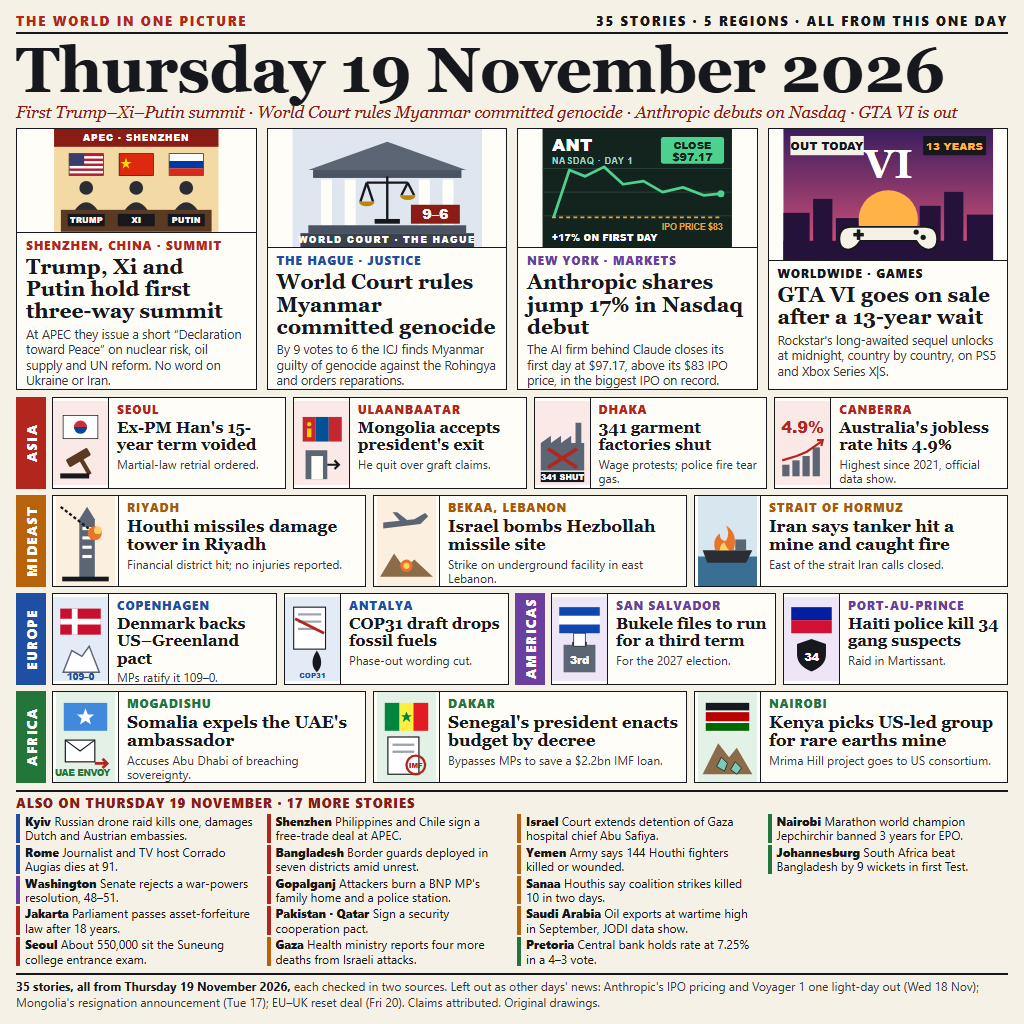
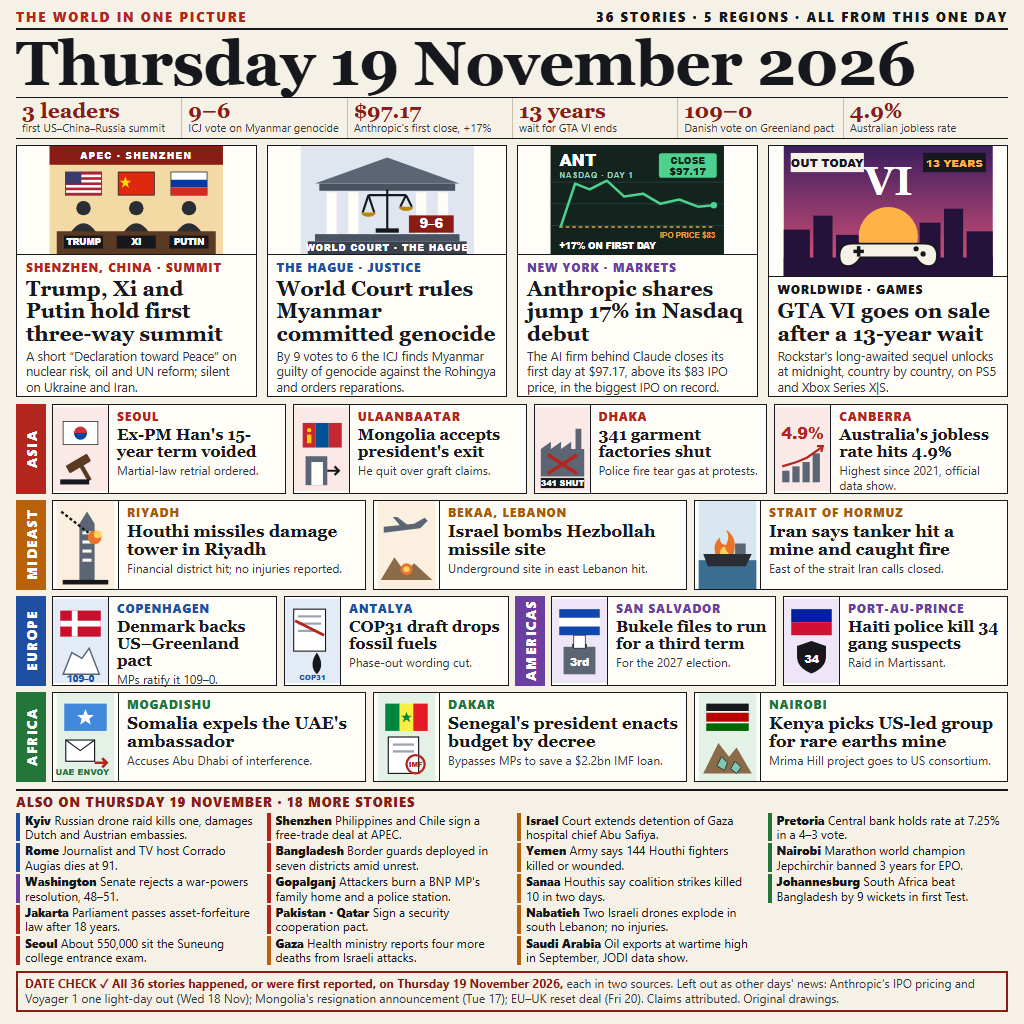
v4: key-number strip, boxed date check, 36 stories

Changed region(s): [[0.0, 0.0, 1.0, 1.0]]

diff --git a/page.html b/page.html
@@ -9,7 +9,7 @@
   body {
     background: #f6f1e6; color: #16181d;
     font-family: "Segoe UI", Arial, Helvetica, sans-serif;
-    padding: 12px 16px 0;
+    padding: 8px 16px 0;
   }
   .serif { font-family: Georgia, "Times New Roman", serif; }
 
@@ -18,13 +18,13 @@
     font-size: 13px; font-weight: 800; letter-spacing: .14em; text-transform: uppercase;
     border-bottom: 2px solid #16181d; padding-bottom: 3px; }
   .top .k { color: #b3261e; }
-  h1 { font-family: Georgia, "Times New Roman", serif; font-size: 64px; line-height: 1; font-weight: 700;
-    letter-spacing: -.01em; margin: 4px 0 1px; }
+  h1 { font-family: Georgia, "Times New Roman", serif; font-size: 62px; line-height: 1; font-weight: 700;
+    letter-spacing: -.01em; margin: 3px 0 2px; }
   .sub { font-family: Georgia, serif; font-style: italic; font-size: 16.5px; color: #8a1c16; margin-bottom: 6px; }
 
   /* hero row */
   .hero { display: grid; grid-template-columns: repeat(4, 1fr); gap: 10px; }
-  .h { background: #fffdf8; border: 1.5px solid #16181d; height: 262px; display: flex; flex-direction: column; }
+  .h { background: #fffdf8; border: 1.5px solid #16181d; height: 252px; display: flex; flex-direction: column; }
   .h svg { display: block; width: 100%; height: 132px; border-bottom: 1.5px solid #16181d; }
   .h .tx { padding: 5px 9px 0; }
   .tag { font-size: 11.5px; font-weight: 800; letter-spacing: .1em; text-transform: uppercase; }
@@ -33,7 +33,7 @@
 
   /* regions */
   .regions { margin-top: 7px; display: flex; flex-direction: column; gap: 6px; }
-  .row { display: flex; gap: 6px; height: 92px; }
+  .row { display: flex; gap: 6px; height: 90px; }
   .lab { width: 30px; flex: none; color: #fff; display: flex; align-items: center; justify-content: center; }
   .lab span { writing-mode: vertical-rl; transform: rotate(180deg); font-size: 13px; font-weight: 800;
     letter-spacing: .12em; text-transform: uppercase; white-space: nowrap; }
@@ -59,14 +59,26 @@
   .briefs ul { list-style: none; display: grid; grid-template-columns: repeat(4, 1fr); grid-template-rows: repeat(5, auto); grid-auto-flow: column; gap: 2px 10px; }
   .briefs li { font-size: 12px; line-height: 1.2; border-left: 4px solid; padding-left: 5px; }
   .briefs li b { font-weight: 800; }
-  footer { margin-top: 7px; border-top: 2px solid #16181d; padding-top: 4px; font-size: 12px; line-height: 1.3; color: #33363c; }
+  .stats { display: grid; grid-template-columns: repeat(6, 1fr); border-top: 1.5px solid #16181d; border-bottom: 1.5px solid #16181d; margin-bottom: 6px; }
+  .stats div { padding: 2px 6px 3px; border-left: 1px solid #c9bfa8; }
+  .stats div:first-child { border-left: none; }
+  .stats b { display: block; font-family: Georgia, serif; font-size: 21px; line-height: 1.05; color: #8a1c16; }
+  .stats span { display: block; font-size: 11px; line-height: 1.15; color: #33363c; }
+  footer { margin-top: 6px; border: 2px solid #8a1c16; padding: 3px 7px; font-size: 12px; line-height: 1.3; color: #33363c; }
   footer b { color: #16181d; }
 </style>
 </head>
 <body>
-  <div class="top"><span class="k">The world in one picture</span><span>35 stories · 5 regions · all from this one day</span></div>
+  <div class="top"><span class="k">The world in one picture</span><span>36 stories · 5 regions · all from this one day</span></div>
   <h1>Thursday 19 November 2026</h1>
-  <div class="sub">First Trump–Xi–Putin summit · World Court rules Myanmar committed genocide · Anthropic debuts on Nasdaq · GTA VI is out</div>
+  <div class="stats">
+    <div><b>3 leaders</b><span>first US–China–Russia summit</span></div>
+    <div><b>9–6</b><span>ICJ vote on Myanmar genocide</span></div>
+    <div><b>$97.17</b><span>Anthropic's first close, +17%</span></div>
+    <div><b>13 years</b><span>wait for GTA VI ends</span></div>
+    <div><b>109–0</b><span>Danish vote on Greenland pact</span></div>
+    <div><b>4.9%</b><span>Australian jobless rate</span></div>
+  </div>
 
   <section class="hero">
     <!-- 1 summit -->
@@ -105,7 +117,7 @@
       <div class="tx">
         <div class="tag asia-t">Shenzhen, China · Summit</div>
         <h2>Trump, Xi and Putin hold first three-way summit</h2>
-        <p>At APEC they issue a short “Declaration toward Peace” on nuclear risk, oil supply and UN reform. No word on Ukraine or Iran.</p>
+        <p>A short “Declaration toward Peace” on nuclear risk, oil and UN reform; silent on Ukraine and Iran.</p>
       </div>
     </article>
 
@@ -210,7 +222,7 @@
             <path d="M8 96 V58 l14 -10 v10 l14 -10 v10 l14 -10 v10 l18 0 V96z" fill="#5b6574"/><rect x="56" y="30" width="8" height="28" fill="#5b6574"/>
             <path d="M18 66 l40 26 M58 66 l-40 26" stroke="#b3261e" stroke-width="5"/>
             <rect x="8" y="98" width="60" height="14" fill="#16181d"/><text x="38" y="109" text-anchor="middle" font-family="Arial" font-weight="900" font-size="11" fill="#fff">341 SHUT</text></svg>
-          <div class="tx"><div class="tag asia-t">Dhaka</div><h3>341 garment factories shut</h3><p>Wage protests; police fire tear gas.</p></div>
+          <div class="tx"><div class="tag asia-t">Dhaka</div><h3>341 garment factories shut</h3><p>Police fire tear gas at protests.</p></div>
         </div>
         <div class="t">
           <svg viewBox="0 0 76 116" aria-hidden="true"><rect width="76" height="116" fill="#fbe9e7"/>
@@ -238,7 +250,7 @@
             <path d="M8 34 l40 -4 l14 -8 l4 4 l-10 10 l-48 6z" fill="#5b6574"/><path d="M30 33 l-10 -12 h6 l14 11z" fill="#5b6574"/>
             <path d="M4 104 l18 -30 l14 20 l12 -12 l24 22z" fill="#8a6b4a"/>
             <circle cx="38" cy="90" r="8" fill="#e8742a"/><circle cx="38" cy="90" r="4" fill="#ffd166"/></svg>
-          <div class="tx"><div class="tag me-t">Bekaa, Lebanon</div><h3>Israel bombs Hezbollah missile site</h3><p>Strike on underground facility in east Lebanon.</p></div>
+          <div class="tx"><div class="tag me-t">Bekaa, Lebanon</div><h3>Israel bombs Hezbollah missile site</h3><p>Underground site in east Lebanon hit.</p></div>
         </div>
         <div class="t">
           <svg viewBox="0 0 76 116" aria-hidden="true"><rect width="76" height="116" fill="#d7e6ef"/>
@@ -297,7 +309,7 @@
             <g transform="translate(10,14)"><rect width="56" height="36" fill="#4189dd"/><polygon points="28,7 31,15 39,15 33,20 35,28 28,23 21,28 23,20 17,15 25,15" fill="#fff"/></g>
             <rect x="12" y="62" width="38" height="28" fill="#fff" stroke="#16181d" stroke-width="1.5"/><path d="M12 62 l19 14 l19 -14" stroke="#16181d" stroke-width="1.5" fill="none"/>
             <path d="M50 92 h16 m-6 -6 l6 6 l-6 6" stroke="#b3261e" stroke-width="3.5" fill="none"/><text x="34" y="108" text-anchor="middle" font-family="Arial" font-weight="900" font-size="11" fill="#23753a">UAE ENVOY</text></svg>
-          <div class="tx"><div class="tag af-t">Mogadishu</div><h3>Somalia expels the UAE's ambassador</h3><p>Accuses Abu Dhabi of breaching sovereignty.</p></div>
+          <div class="tx"><div class="tag af-t">Mogadishu</div><h3>Somalia expels the UAE's ambassador</h3><p>Accuses Abu Dhabi of interference.</p></div>
         </div>
         <div class="t">
           <svg viewBox="0 0 76 116" aria-hidden="true"><rect width="76" height="116" fill="#e4f1e7"/>
@@ -317,7 +329,7 @@
   </section>
 
   <section class="briefs">
-    <div class="bh">Also on Thursday 19 November · 17 more stories</div>
+    <div class="bh">Also on Thursday 19 November · 18 more stories</div>
     <ul>
       <li style="border-color:#1f4fa3"><b>Kyiv</b> Russian drone raid kills one, damages Dutch and Austrian embassies.</li>
       <li style="border-color:#1f4fa3"><b>Rome</b> Journalist and TV host Corrado Augias dies at 91.</li>
@@ -332,6 +344,7 @@
       <li style="border-color:#b8620b"><b>Israel</b> Court extends detention of Gaza hospital chief Abu Safiya.</li>
       <li style="border-color:#b8620b"><b>Yemen</b> Army says 144 Houthi fighters killed or wounded.</li>
       <li style="border-color:#b8620b"><b>Sanaa</b> Houthis say coalition strikes killed 10 in two days.</li>
+      <li style="border-color:#b8620b"><b>Nabatieh</b> Two Israeli drones explode in south Lebanon; no injuries.</li>
       <li style="border-color:#b8620b"><b>Saudi Arabia</b> Oil exports at wartime high in September, JODI data show.</li>
       <li style="border-color:#23753a"><b>Pretoria</b> Central bank holds rate at 7.25% in a 4–3 vote.</li>
       <li style="border-color:#23753a"><b>Nairobi</b> Marathon world champion Jepchirchir banned 3 years for EPO.</li>
@@ -340,7 +353,7 @@
   </section>
 
   <footer>
-    <b>35 stories, all from Thursday 19 November 2026,</b> each checked in two sources. Left out as other days' news: Anthropic's IPO pricing and Voyager 1 one light-day out (Wed 18 Nov); Mongolia's resignation announcement (Tue 17); EU–UK reset deal (Fri 20). Claims attributed. Original drawings.
+    <b style="color:#8a1c16">DATE CHECK ✓ All 36 stories happened, or were first reported, on Thursday 19 November 2026,</b> each in two sources. Left out as other days' news: Anthropic's IPO pricing and Voyager 1 one light-day out (Wed 18 Nov); Mongolia's resignation announcement (Tue 17); EU–UK reset deal (Fri 20). Claims attributed. Original drawings.
   </footer>
 </body>
 </html>

diff --git a/README.md b/README.md
@@ -6,9 +6,9 @@
 
 Built for the make.fun bounty [Sum up 19 November's world news in one image](https://make.fun/bounty/news-image-20261119).
 
-35 stories from Thursday 19 November 2026, each checked in two sources: four drawn lead stories
+36 stories from Thursday 19 November 2026, each checked in two sources: four drawn lead stories
 (Trump–Xi–Putin summit, the ICJ's Myanmar genocide ruling, Anthropic's Nasdaq debut, GTA VI's release),
-14 drawn tiles grouped by region (Asia, Middle East, Europe, Americas, Africa) and 17 one-line briefs.
+14 drawn tiles grouped by region (Asia, Middle East, Europe, Americas, Africa) and 18 one-line briefs, a key-number strip and a date check.
 
 - `page.html`: the front page, with original inline SVG drawings
 - `render.py`: renders it to `entry.png` (1024x1024) with headless Chrome + Pillow
